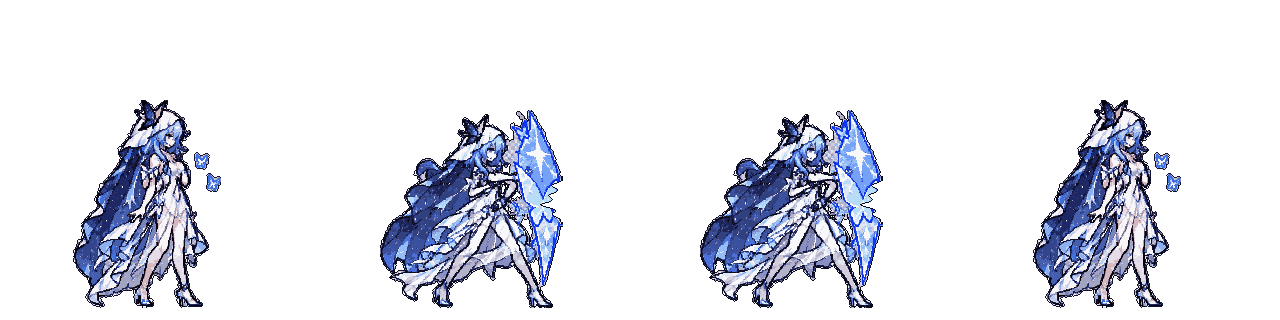
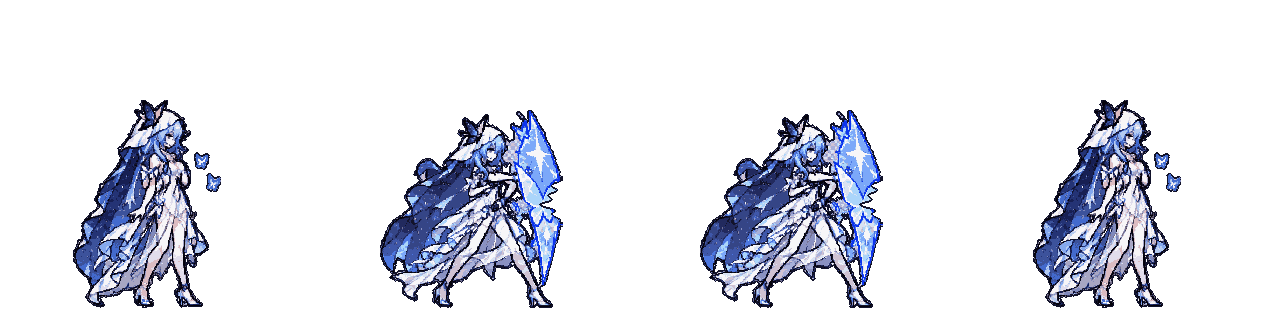
art: 파수인 도트 다듬기(윤곽 흰 점 → 남색 윤곽, 망토 외톨이 잡티 제거) — 캐릭터별 POLISH 단계

diff --git a/docs/STATUS.md b/docs/STATUS.md
@@ -55,3 +55,4 @@ PixelLab 프롬프트를 웹 화면 스크린샷에 맞춰 수정: Create from T
 2026-11-23: 메인 타이틀을 명조 3.0 로그인 화면처럼 바꾸는 기획과 프롬프트를 [TITLE_PROMPTS.md](art/TITLE_PROMPTS.md)로 분리했다. 층: 배경(`title_bg`) · 떠 있는 바위(`title_rocks`) · 캐릭터 포즈 4칸(`title_pose_aem`, `title_pose_rov`, `title_pose_rovM`) · UI(코드). 업로드한 전투 배경 4장은 후보에 넣었다(위아래 검은 띠 자르기 필요). 전투 배경을 명조 실제 장소로 바꾸는 일은 장소별 스크린샷을 받은 뒤 진행한다.
 2026-11-23: GPT 그림 자글자글·뭉개짐 대응으로 `CLEAN LOCK` 공통 문장을 만들어 GPT 프롬프트 전부(카드 91장, 모션, 공명자, 수정, 전투 배경, 타이틀)에 넣었다. 카드 기본 문장에서 "glow·motion trails·noise"처럼 잡티를 부르는 말을 뺐다. 공용 카드 3장(`any_scan`·`any_focus`·`any_overload`) 업로드 그림은 후보에 넣었다. 도구별 차이는 [ART_PIPELINE.md](art/ART_PIPELINE.md).
 2026-11-23: 타이틀 배경으로 사용자가 고른 플로우 그림을 넣었다(`art/source-v2/title_bg.png` → `assets/maps/title-bg.png` 640×360, `prepare-battle-bg.cjs`가 함께 처리). 오른쪽 아래에 작은 플로우 워터마크가 남아 있다. 타이틀 프롬프트는 플로우용 짧은 문장으로 줄였고, 제목에 '플로우'가 있는 항목에는 GPT용 CLEAN LOCK을 넣지 않는다. 게임 화면 연결(`titleHTML`)은 아직 안 함(`dev`).
+2026-11-24: 파수인 도트 다듬기. `prepare-heroes-v3.cjs`에 캐릭터별 다듬기(`POLISH`)를 넣어 파수인만 윤곽의 흰 점을 남색 윤곽으로, 망토의 한 점 잡티를 이웃 색으로 바꿨다(머리 위 28%는 건드리지 않음). 원본 시트 자체가 잡티가 많아 완전히 깨끗하지는 않다. 근본 해결은 CLEAN LOCK이 들어간 16칸 프롬프트(`hero_sk_full`)로 다시 생성하는 것.
